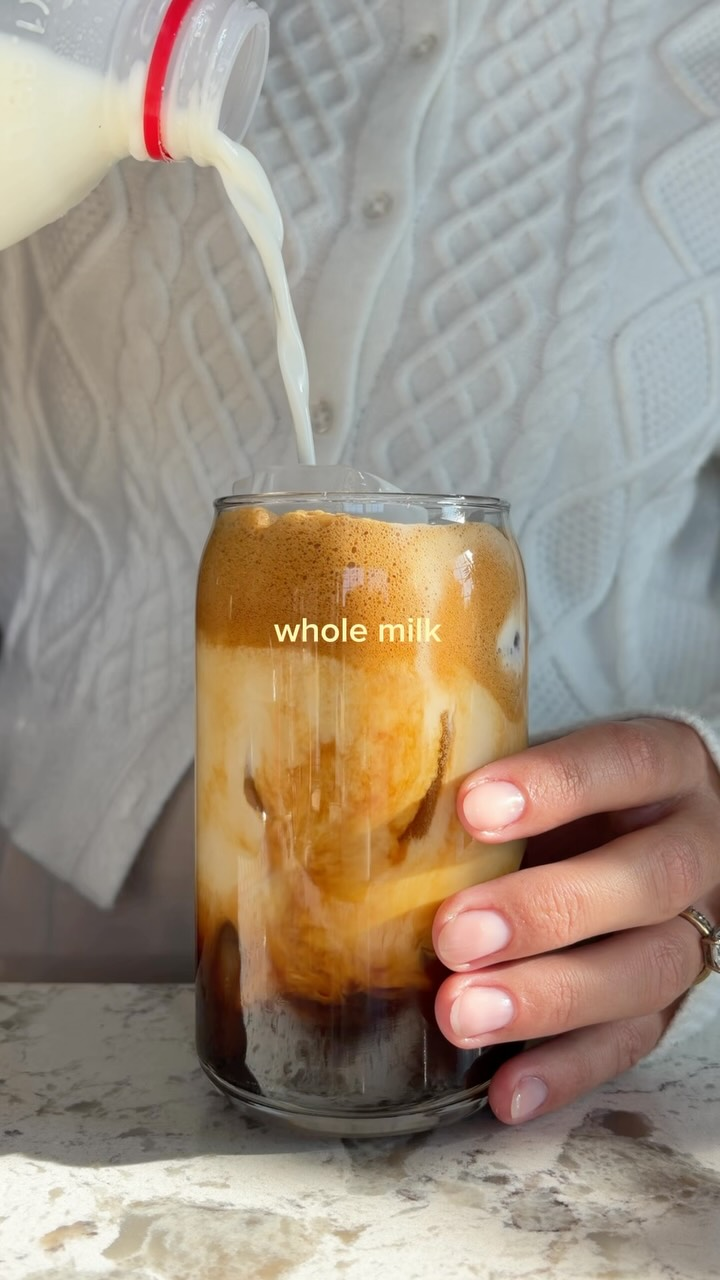
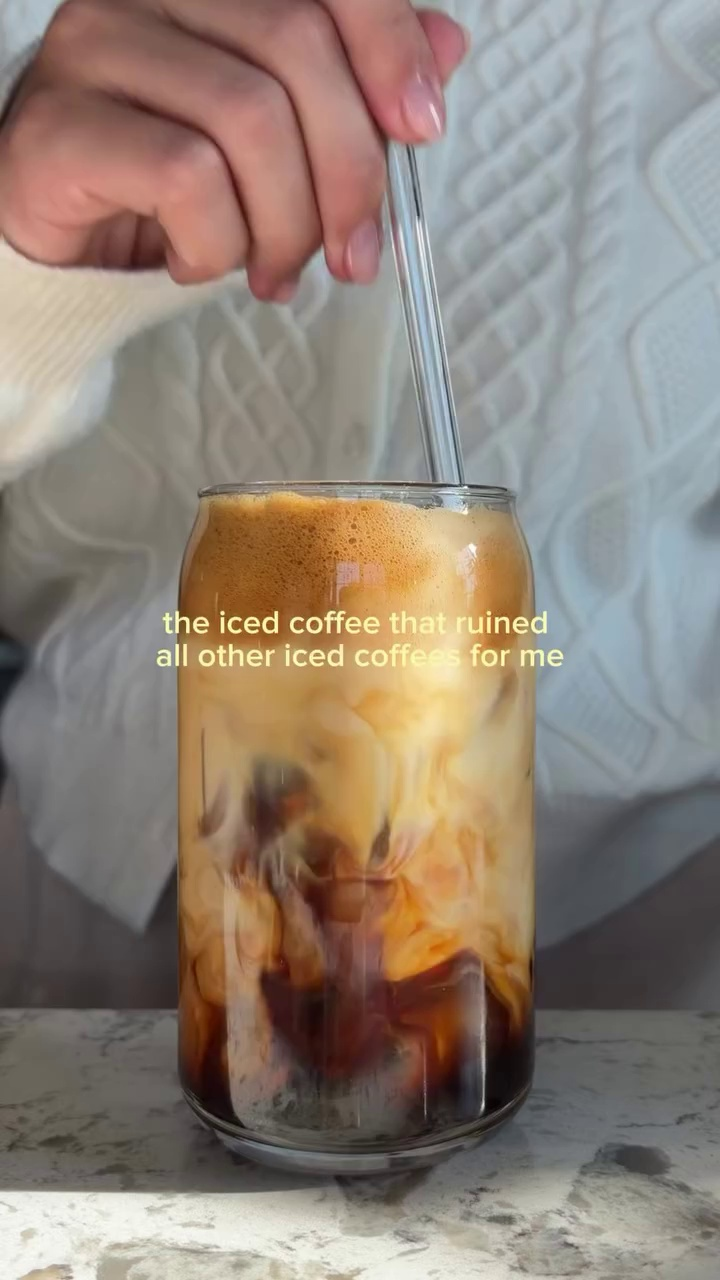
feat(translator): implement intelligent hero frame selection prioritizing on-screen drink titles

diff --git a/lib/actions/translate-recipe.ts b/lib/actions/translate-recipe.ts
@@ -137,13 +137,36 @@ export async function translateRecipeAction(payload: {
 
     const result = synthesizeRecipe(ir);
 
-    // 3. Download video thumbnail image to public/recipes if available
-    if (ir.thumbnail_url) {
+    // 3. Resolve slug uniqueness
+    let finalSlug = result.recipe.slug;
+    if (recipeSlugExists(finalSlug)) {
+      let counter = 2;
+      while (recipeSlugExists(`${finalSlug}-${counter}`)) {
+        counter++;
+      }
+      finalSlug = `${finalSlug}-${counter}`;
+      result.recipe.slug = finalSlug;
+    }
+
+    // 4. Save hero thumbnail image to public/recipes (prioritize smart title frame over generic CDN thumbnail)
+    const imageDir = path.join(process.cwd(), "public", "recipes");
+    mkdirSync(imageDir, { recursive: true });
+    const imageFileName = `${finalSlug}.jpg`;
+    const imagePath = path.join(imageDir, imageFileName);
+
+    if (ir.hero_frame_base64) {
       try {
-        const imageDir = path.join(process.cwd(), "public", "recipes");
-        mkdirSync(imageDir, { recursive: true });
-        const imageFileName = `${result.recipe.slug}.jpg`;
-        const imagePath = path.join(imageDir, imageFileName);
+        const buffer = Buffer.from(ir.hero_frame_base64, "base64");
+        writeFileSync(imagePath, buffer);
+        result.recipe.image = `/recipes/${imageFileName}`;
+        console.log(
+          `[Action] Saved smart hero thumbnail to: /recipes/${imageFileName} (${ir.hero_frame_reason || "selected hero frame"})`
+        );
+      } catch (heroErr) {
+        console.warn("[Action] Failed to save hero frame thumbnail:", heroErr);
+      }
+    } else if (ir.thumbnail_url) {
+      try {
         const imgRes = await fetch(ir.thumbnail_url);
         if (imgRes.ok) {
           const buffer = Buffer.from(await imgRes.arrayBuffer());
@@ -156,20 +179,10 @@ export async function translateRecipeAction(payload: {
       }
     }
 
-    // 4. Auto-seed into the vault as needs_testing
+    // 5. Auto-seed into the vault as needs_testing
     result.recipe.status = "needs_testing";
     result.recipe.review = undefined;
     result.recipe.created_at = new Date().toISOString();
-
-    let finalSlug = result.recipe.slug;
-    if (recipeSlugExists(finalSlug)) {
-      let counter = 2;
-      while (recipeSlugExists(`${finalSlug}-${counter}`)) {
-        counter++;
-      }
-      finalSlug = `${finalSlug}-${counter}`;
-      result.recipe.slug = finalSlug;
-    }
 
     const validationErrors = validateRecipeCandidate(
       result.recipe,

diff --git a/lib/translator/video-ai.ts b/lib/translator/video-ai.ts
@@ -174,6 +174,8 @@ export async function extractRecipeWithGeminiVideo(
       extraction_mode: "video_multimodal_ai",
       text_overlays: parsed.text_overlays_found || [],
       thumbnail_url: detectedThumbnail?.trim() || undefined,
+      hero_frame_base64: parsed.hero_frame_base64 || undefined,
+      hero_frame_reason: parsed.hero_frame_reason || undefined,
     };
 
     return ir;

diff --git a/lib/translator/types.ts b/lib/translator/types.ts
@@ -58,6 +58,8 @@ export interface RecipeIR {
   extraction_mode?: "video_multimodal_ai" | "caption_heuristic";
   text_overlays?: string[];
   thumbnail_url?: string;
+  hero_frame_base64?: string;
+  hero_frame_reason?: string;
 }
 
 export interface TranslationSuperpowers {

diff --git a/lib/translator/reel_extractor.py b/lib/translator/reel_extractor.py
@@ -74,6 +74,7 @@ def extract_reel(video_url: str):
         step_frames = max(1, int(fps * step_seconds))
 
         frame_parts = []
+        raw_frame_data = []
         frame_idx = 0
         saved_frames = 0
 
@@ -91,6 +92,7 @@ def extract_reel(video_url: str):
                 success, enc = cv2.imencode(".jpg", frame, [cv2.IMWRITE_JPEG_QUALITY, 85])
                 if success:
                     b64_str = base64.b64encode(enc.tobytes()).decode("utf-8")
+                    raw_frame_data.append(b64_str)
                     frame_parts.append({
                         "inline_data": {
                             "mime_type": "image/jpeg",
@@ -106,37 +108,46 @@ def extract_reel(video_url: str):
             print(json.dumps({"error": "No frames could be extracted from video stream"}))
             sys.exit(1)
 
-        # 3. Prompt Gemini 2.5 Flash with the full 2 FPS frame sequence
-        prompt = """You are an expert barista and coffee recipe ingestion engine for StickyMilk.
-Here are sequential video frames (captured at 2 FPS) from a social media coffee reel.
+        # 3. Prompt Gemini 2.5 Flash with the full 2 FPS frame sequence and hero frame selection
+        prompt = f"""You are an expert barista and coffee recipe ingestion engine for StickyMilk.
+Here are {saved_frames} sequential video frames (captured at 2 FPS, indexed 0 to {saved_frames - 1}) from a social media coffee reel.
 1. VERIFY DOMAIN & SAFETY: Confirm whether this is a legitimate beverage recipe. If NOT (e.g. non-drink content, prank, inappropriate/NSFW), set "is_coffee_or_beverage": false and provide "rejection_reason".
 2. READ ALL ON-SCREEN TEXT OVERLAYS: Pay special attention to fast 0.5-second cuts, text stickers, ingredients, brand labels, measuring numbers, and cup markings (e.g. brown sugar, maple syrup, flaky sea salt, espresso, milk, cream, syrups).
 3. WATCH VISUAL ACTIONS: Note if they froth cold foam, pinch flaky salt, add ice, pour milk, pull espresso.
-4. Extract the recipe into strict JSON with this exact schema:
-{
+4. SELECT HERO THUMBNAIL FRAME:
+Select the single best frame index (0-indexed from 0 to {saved_frames - 1}) to use as the hero thumbnail image for this recipe.
+Follow this strict priority:
+- Priority 1: Pick a frame that clearly features the on-screen drink title, hook text, or recipe name overlay (e.g. 'the iced coffee that ruined all other iced coffees for me', 'Pumpkin Banana Bread Iced Latte', etc.), ideally while also showing the drink or glass.
+- Priority 2: If no frame contains the drink name or title text overlay, pick the most appetizing, clear hero shot of the completed drink (e.g. beautiful crema, swirling milk/espresso layers, cold foam crown, garnish).
+Avoid blurry mid-action shots, pouring streams obstructing the glass, or plain ingredient packages without the drink.
+Provide "hero_frame_index": number (0 to {saved_frames - 1}) and "hero_frame_reason": string explaining why it was chosen.
+5. Extract the recipe into strict JSON with this exact schema:
+{{
   "is_coffee_or_beverage": boolean,
   "rejection_reason": string,
   "raw_title": string,
+  "hero_frame_index": number,
+  "hero_frame_reason": string,
   "creator_handle": string,
   "creator_name": string,
-  "stated_coffee": {
+  "stated_coffee": {{
     "raw_name": string,
     "system": "vertuo" | "original" | "capsule" | "instant",
     "shots": number,
     "roast_profile": "light" | "medium" | "dark"
-  },
+  }},
   "raw_ingredients": [
-    {
+    {{
       "amount": number,
       "unit": string,
       "item": string,
       "group": "Cold Foam" | "Latte Base" | "Garnish",
       "optional": boolean
-    }
+    }}
   ],
   "raw_steps": [ string ],
   "text_overlays_found": [ string ]
-}
+}}
 Return ONLY valid JSON matching this schema."""
 
         contents = [prompt] + frame_parts
@@ -159,6 +170,13 @@ Return ONLY valid JSON matching this schema."""
             parsed["detected_title"] = detected_title
             parsed["video_duration"] = duration
             parsed["frames_analyzed"] = saved_frames
+
+            # Extract hero frame base64
+            hero_idx = parsed.get("hero_frame_index")
+            if isinstance(hero_idx, int) and 0 <= hero_idx < len(raw_frame_data):
+                parsed["hero_frame_base64"] = raw_frame_data[hero_idx]
+            elif raw_frame_data:
+                parsed["hero_frame_base64"] = raw_frame_data[0]
 
             print(json.dumps(parsed))
         except Exception as e:
